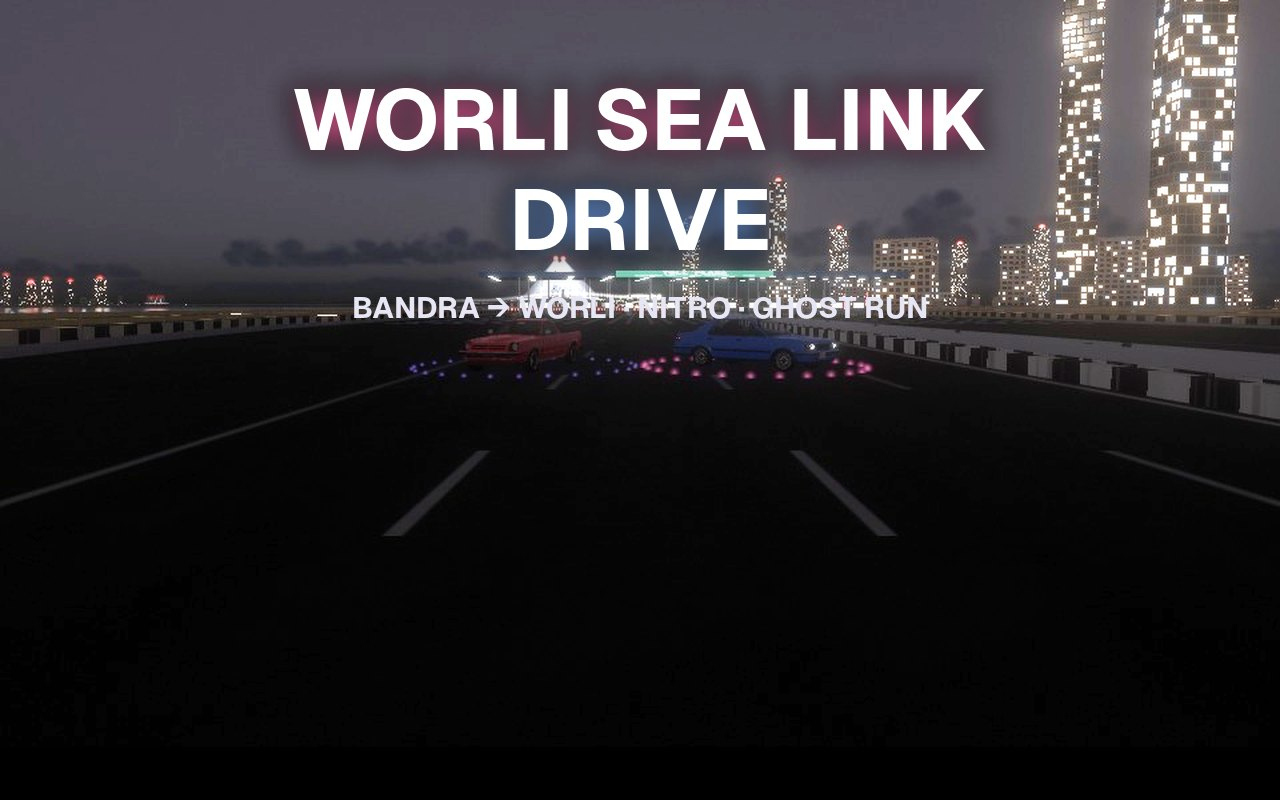
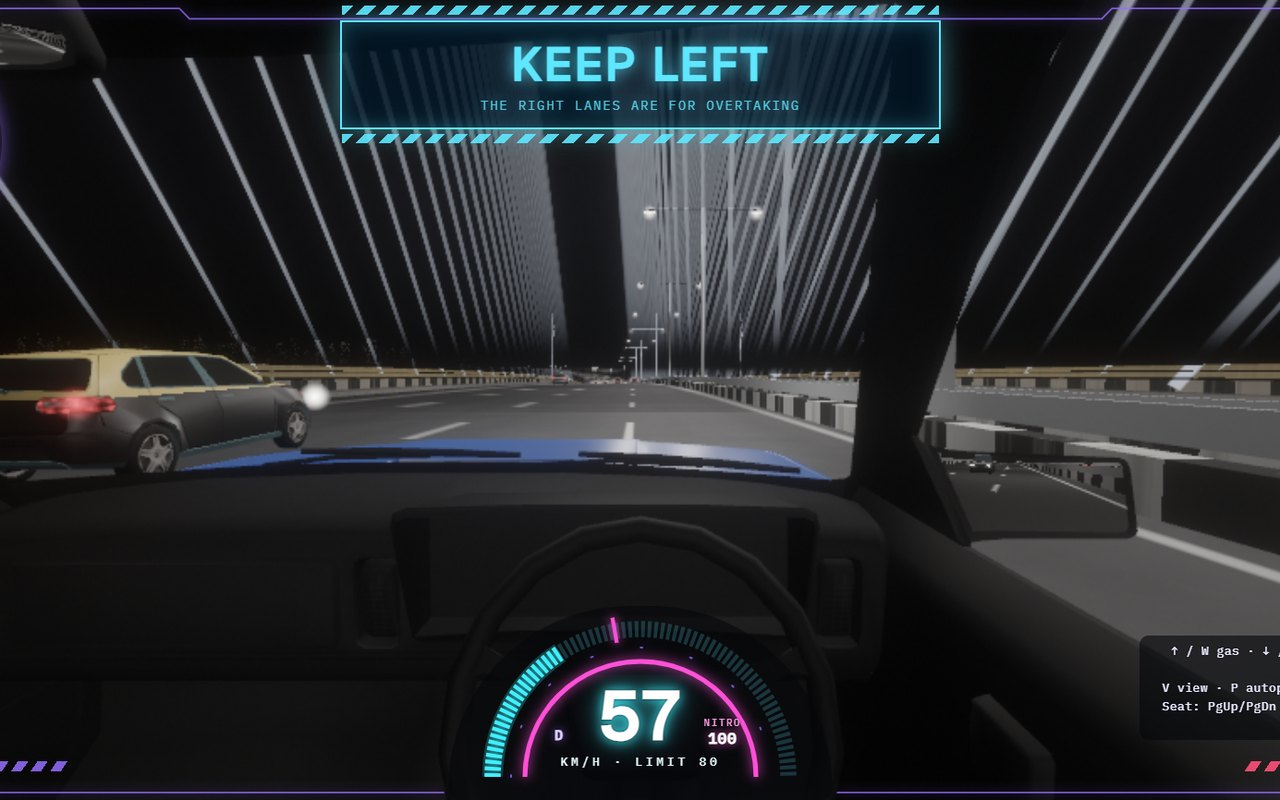
Worli Sea Link Drive: cover, aerial and GIF from Mohit's screenshots
Claude-Session: https://claude.ai/code/session_01BmpUg661HX7evUobhC82xS

diff --git a/app.js b/app.js
@@ -65,7 +65,7 @@ const DEMOS = [
   needs:"Best on a phone, with sound on. On Android in Chrome: tap Light up your room, point at the floor and tap to place. On iPhone: tap Open camera view (turn the silent switch off for sound). On a laptop: View in 3D, or scan the QR code with your phone. Pick an item from the tray at the bottom; Undo removes the last thing you placed and Clear all starts again. For पॉप पॉप (bang snaps), hold your phone tight and flick it down; on iPhone, tap Allow when it asks about Motion. Choose Normal, Quiet or Pet-safe sound (no bangs). Please use it at home with some space around you, not while walking.",
   desc:"A Green Diwali in your own room. Draw a dot rangoli that sprinkles itself in coloured powder, set clay diyas and a brass samai around it, and light crackers that look real but are only light: a fountain cone, a spinner, crackling string crackers, a rocket from a bottle, a snake tablet whose ash snake curls out across the floor, and sky lanterns that drift away on the breeze. Pick पॉप पॉप and flick your phone at the floor to throw bang snaps, one at a time, or swing harder for a fistful. Hold a sparkler that comes out of your phone and write in the air with it, plant up to five more in little pots of sand, and light yours from a diya's flame. Then look up for a sky show of peonies, willows, rings and palms with a grand finale. No smoke, no burns, no noise for pets, babies and the elderly, and nothing that can land on a roof. Rocket model based on Fire Crackers by Ankitimation and brass samai based on Diya | Divli | Lamp by ShonkV (both CC BY 4.0, Sketchfab). Cracker sounds from Mixkit and Pixabay. Music by Mikhail Smusev from Pixabay. Everything else, from the toran to the sparks, is built in code."},
  {id:"worli-sea-link-drive",added:"2026-11-17",name:"Worli Sea Link Drive",board:"SEA LINK DRIVE",line:"Race from Bandra to Worli across the Sea Link at dusk, with nitro, a neon HUD and a ghost of your best run",cat:"XR",also:["Games"],status:"Prototype",makers:["Mohit Bhardwaj"],inst:"Real",tools:["WebGL 2","WebXR","Web Audio"],
-  gif:"media/worli-sea-link-drive.gif",img:"media/worli-sea-link-drive-cover.jpg",url:"demos/worli-sea-link-drive/",cta:"Start driving",
+  gif:"media/worli-sea-link-drive.gif",img:"media/worli-sea-link-drive-cover.jpg",sheetImg:"media/worli-sea-link-drive-aerial.jpg",url:"demos/worli-sea-link-drive/",cta:"Start driving",
   vr:"inventndiscover.com/demos/worli-sea-link-drive",
   needs:"Turn your sound on. On a laptop: pick a car, then ↑ / W gas, ↓ / S brake, ← → steer, Shift nitro, V change view, P autopilot, R radio, Space pause. In VR on Meta Quest 2 or 3: the trigger picks a car, A for time, weather and traffic, hold A and use the sticks to adjust your seat, B next mode. Best in a recent Chrome, Edge or Safari.",
   desc:"An illustrative, Madout-style drive from Bandra to Worli across Mahim Bay, past the toll plaza, under the cable-stayed pylons and on into Worli. Pick the red Doutrive '78 or the blue Kiri '86, hit Shift for a nitro boost (a game effect only: please drive within limits on real roads), and watch the neon HUD with radar and working mirrors. Set a time, then race the ghost car of your best run for a beat-your-time badge. Opens with a voiced neon crawl. Marine Drive and Bandra routes are coming soon. Not a surveyed map. Cars: Daniel Zhabotinsky and Comrade1280 on Sketchfab (CC BY 4.0). Music: Pixabay."},
